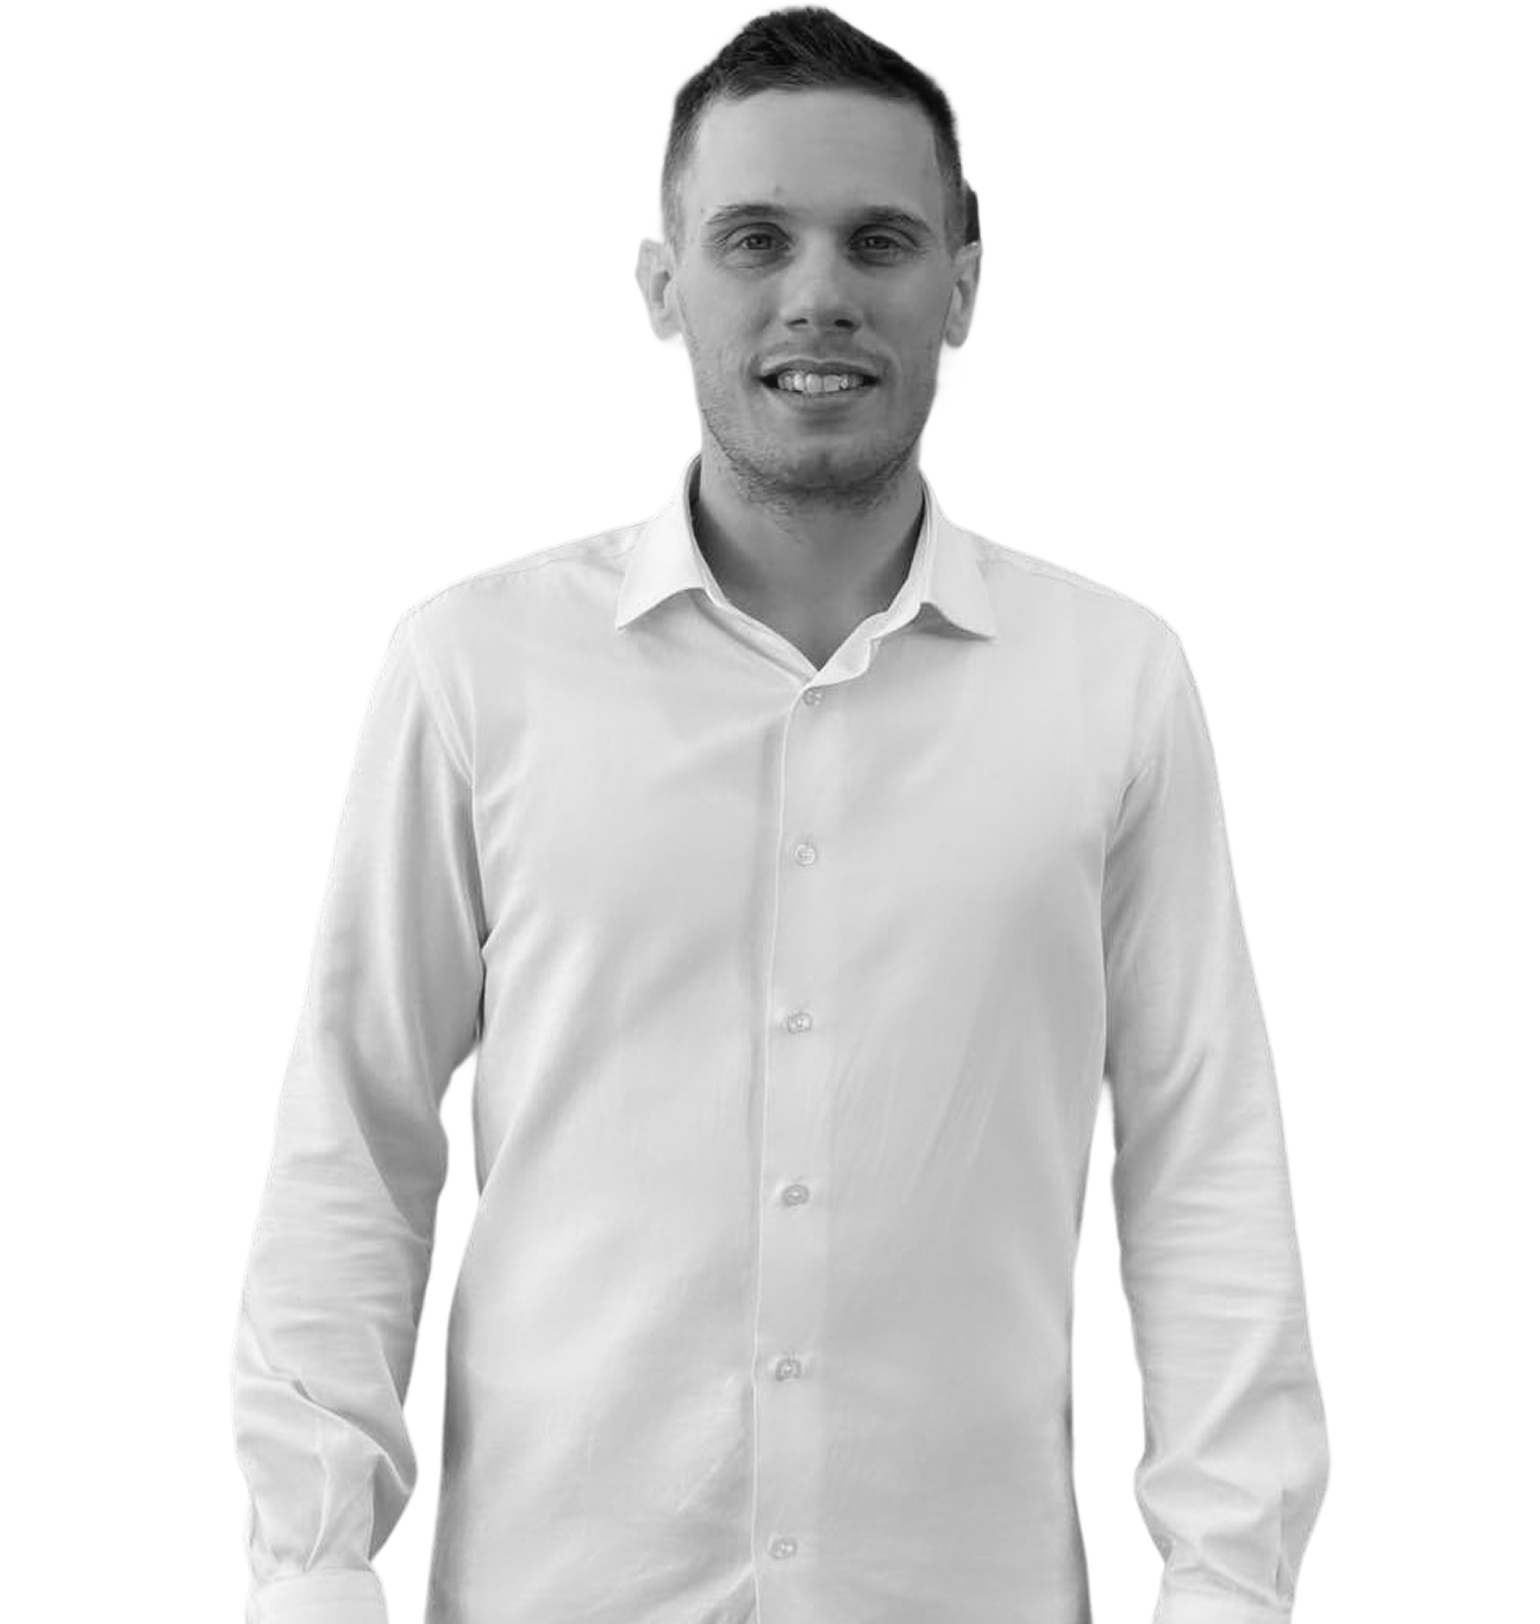
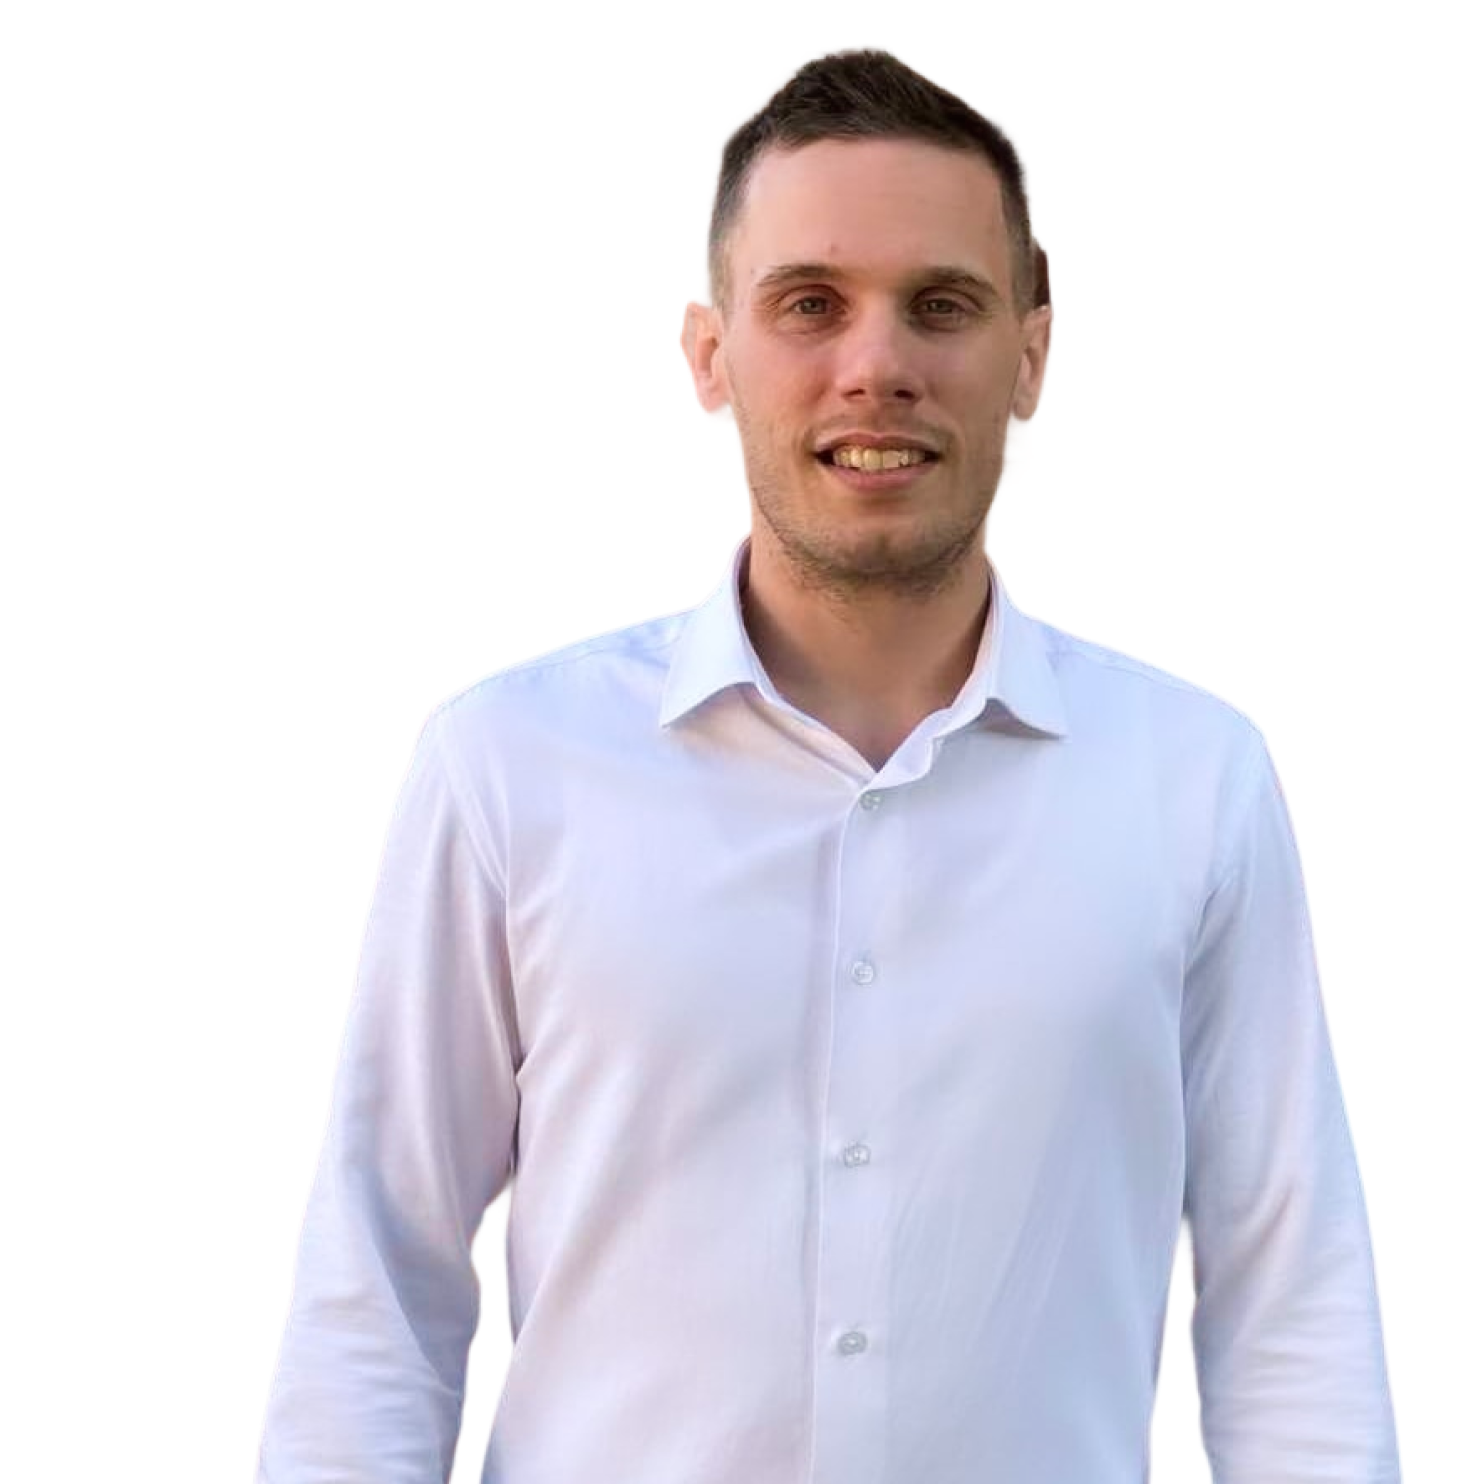
add color to hero image

diff --git a/index.html b/index.html
@@ -83,7 +83,7 @@
             >
           </h1>
           <p class="hero-cpy">
-            I help small busniess and startups to grow and make full potentional
+            I help small busniess and startups to grow and make full potential.
           </p>
         </div>
         <div class="hero-v2-right">
@@ -191,10 +191,12 @@
                 <span class="t-quote">&ldquo;</span>
                 <p class="t-text">
                   I had the pleasure of working with Bojan on several projects.
-                  <mark>His expertise across web and mobile platforms is
-                  consistently innovative,</mark> and he always delivers clean,
-                  scalable code. His communication is clear and he adapts
-                  quickly to any challenge.
+                  <mark
+                    >His expertise across web and mobile platforms is
+                    consistently innovative,</mark
+                  >
+                  and he always delivers clean, scalable code. His communication
+                  is clear and he adapts quickly to any challenge.
                 </p>
                 <div class="t-author-block">
                   <div class="t-author">Dejan Krunić</div>
@@ -206,8 +208,10 @@
                 <span class="t-quote">&ldquo;</span>
                 <p class="t-text">
                   Working with Bojan was seamless from start to finish.
-                  <mark>He took our vision and transformed it into a polished,
-                  performant product that exceeded expectations.</mark>
+                  <mark
+                    >He took our vision and transformed it into a polished,
+                    performant product that exceeded expectations.</mark
+                  >
                   His attention to detail and commitment to quality are exactly
                   what you want in a developer.
                 </p>
@@ -222,8 +226,10 @@
                 <p class="t-text">
                   Bojan brought technical depth and creative thinking to every
                   task. He understood our goals from day one and
-                  <mark>consistently delivered beyond what was asked — a rare
-                  combination of skill, reliability, and positive energy</mark>
+                  <mark
+                    >consistently delivered beyond what was asked — a rare
+                    combination of skill, reliability, and positive energy</mark
+                  >
                   throughout every project.
                 </p>
                 <div class="t-author-block">
@@ -235,11 +241,13 @@
               <div class="t-card">
                 <span class="t-quote">&ldquo;</span>
                 <p class="t-text">
-                  <mark>Bojan's ability to turn complex requirements into
-                  elegant, user-friendly interfaces is impressive.</mark>
+                  <mark
+                    >Bojan's ability to turn complex requirements into elegant,
+                    user-friendly interfaces is impressive.</mark
+                  >
                   He works with precision and speed, and his eye for design
-                  details makes every project stand out. Highly recommended
-                  for any ambitious project.
+                  details makes every project stand out. Highly recommended for
+                  any ambitious project.
                 </p>
                 <div class="t-author-block">
                   <div class="t-author">Ana Jovanović</div>

diff --git a/styles.css b/styles.css
@@ -235,7 +235,7 @@ nav.scrolled .nav-links a.contact {
   height: 85vh;
   object-fit: cover;
   object-position: center top;
-  filter: grayscale(100%);
+
   display: block;
 }
 
